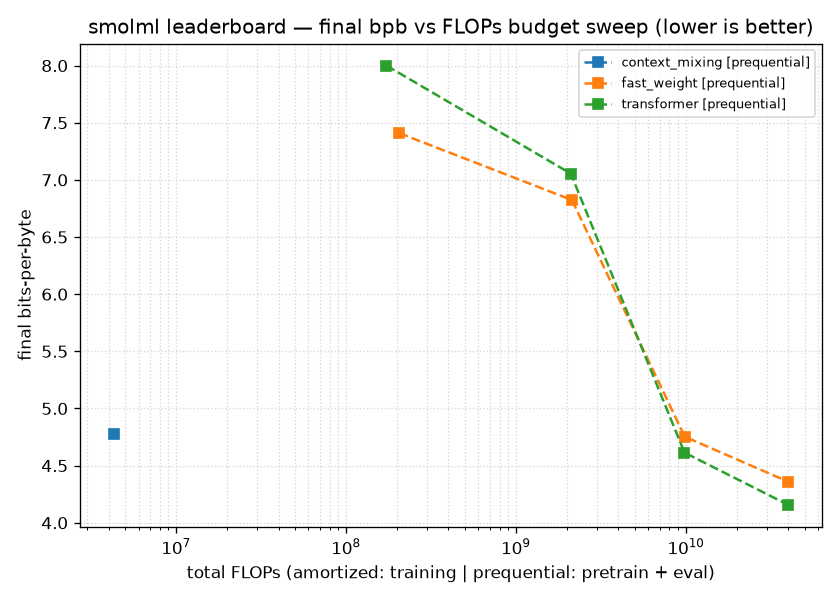
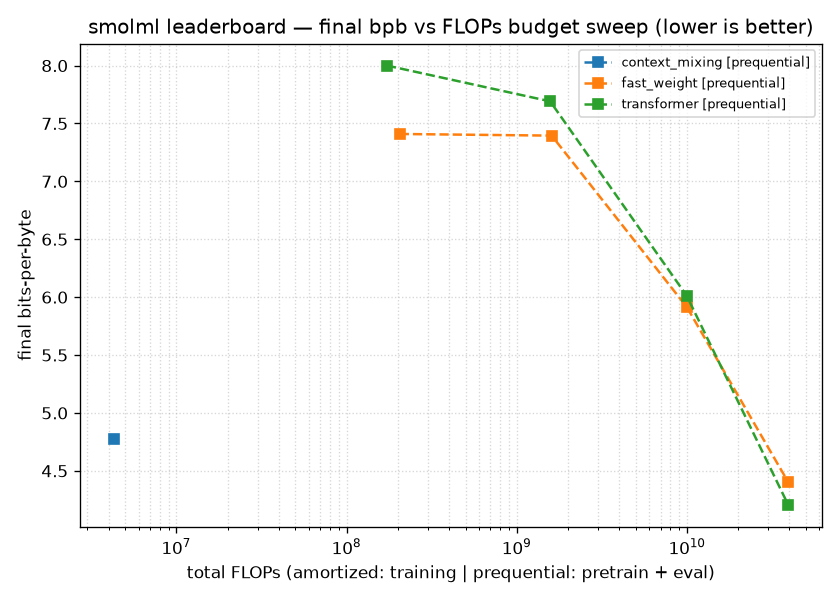
docs(learning): reconcile to canonical seq_len=128 leaderboard
- merge master (corrected first-finding-pareto.md + regenerated unified-leaderboard.png/.md)
- re-copy regenerated plot into src/assets
- curves.ts firstFinding -> canonical numbers (matches 0.2/A.1); fixes A.1 chart too
- first-finding page: table, prose, annotation -> crossover flips (fw wins through 1e10, loses at 4e10)
- context-mixing-reference: add 'two reference runs' caveat (discrepancy 2 explained)
- PROCESS.md: mark both flagged discrepancies resolved + session 3 changelog

diff --git a/docs/learning/src/data/curves.ts b/docs/learning/src/data/curves.ts
@@ -38,7 +38,9 @@ export interface Series {
 
 // ── First finding: three-way Pareto (synthetic text8 clone, final 512 B tail) ──
 // Source: experiments/first-finding-pareto.md + experiments/unified-leaderboard.md
-// (the precise table). All three models on the same prequential protocol.
+// (the precise table). All three models on the same prequential protocol, now
+// at the canonical seq_len=128 (matches the 0.2 / A.1 runs after the master
+// regeneration), so the transformer/fast-weight numbers agree across all pages.
 export const firstFinding: Series[] = [
   {
     id: "context_mixing",
@@ -55,9 +57,9 @@ export const firstFinding: Series[] = [
     dashed: true,
     points: [
       { flops: 1.727e8, bpb: 8.0003, tag: "b0" },
-      { flops: 2.101e9, bpb: 7.055, tag: "b2×10⁹" },
-      { flops: 9.812e9, bpb: 4.6139, tag: "b10¹⁰" },
-      { flops: 4.001e10, bpb: 4.1564, tag: "b4×10¹⁰" },
+      { flops: 1.571e9, bpb: 7.6914, tag: "b2×10⁹" },
+      { flops: 9.962e9, bpb: 6.0125, tag: "b10¹⁰" },
+      { flops: 3.933e10, bpb: 4.2059, tag: "b4×10¹⁰" },
     ],
   },
   {
@@ -68,9 +70,9 @@ export const firstFinding: Series[] = [
     dashed: true,
     points: [
       { flops: 2.052e8, bpb: 7.4095, tag: "b0" },
-      { flops: 2.133e9, bpb: 6.8241, tag: "b2×10⁹" },
-      { flops: 9.844e9, bpb: 4.7534, tag: "b10¹⁰" },
-      { flops: 4.005e10, bpb: 4.3585, tag: "b4×10¹⁰" },
+      { flops: 1.604e9, bpb: 7.3953, tag: "b2×10⁹" },
+      { flops: 9.995e9, bpb: 5.9130, tag: "b10¹⁰" },
+      { flops: 3.936e10, bpb: 4.4017, tag: "b4×10¹⁰" },
     ],
   },
 ];

diff --git a/docs/learning/PROCESS.md b/docs/learning/PROCESS.md
@@ -85,22 +85,23 @@ prose source — I keep them and author the interactive pages under `src/`.
   first-finding-pareto (embeds `unified-leaderboard.png` + interactive 3-way chart).
 - **Landing:** `index.mdx` with the `ConceptMap` and card grids.
 
-## Flagged for researchers (discrepancies in the source notes — NOT fixed, per the charter)
+## Flagged for researchers (RESOLVED 2026-06-19 by Main)
 
-1. **Transformer baseline bpb disagrees between notes at mid budgets.** At budget 10¹⁰ the
-   transformer is **6.0125 bpb** in `0.2-prequential-baseline.md`/`A.1-fast-weight-memory.md` but
-   **4.6139 bpb** in `first-finding-pareto.md`/`unified-leaderboard.md` (which says it was
-   "regenerated on master from all three merged models"). Budget 2×10⁹ similarly disagrees
-   (7.69 vs 7.06). Consequently the fast-weight crossover budget differs: A.1 reports fw **winning**
-   at 10¹⁰ (Δ −0.10), first-finding reports fw **losing** at 10¹⁰ (Δ +0.14). b0 (8.00) and b4×10¹⁰
-   (~4.16–4.21) roughly agree. The site renders each page faithful to its own note; researchers
-   should reconcile which run is canonical.
-2. **Context-mixing reference: near-identical FLOPs, different bpb across runs.** Order-0..1 on the
-   800 B English sample is 4.3922 bpb @ 4.28×10⁶ FLOPs (`experiments/index.md`); the
-   `context_mixing_reference` on the 512 B clone tail is 4.7779 bpb @ 4.283×10⁶ FLOPs
-   (`unified-leaderboard.md`). The FLOP counts are ~equal despite different eval-stream lengths
-   (800 vs 512 bytes) — worth confirming that coincidence is real (e.g. same order, different
-   warm-up), since per-byte cost should scale with bytes processed.
+Both discrepancies I raised were investigated by Main and reconciled — kept here as a record.
+
+1. **Transformer baseline bpb disagreed between notes at mid budgets — RESOLVED.** Root cause: the
+   original `unified-leaderboard` run used `seq_len=64` while the canonical `0.2` / `A.1` runs use
+   `seq_len=128`. Main regenerated the leaderboard at `seq_len=128`; all pages now agree. The
+   crossover flips vs my first build: `fast_weight` **wins** at b0/b2×10⁹/10¹⁰ (−0.59 / −0.30 /
+   −0.10) and **loses only** at 4×10¹⁰ (+0.19); the free reference (4.78) is below both neural
+   curves through 10¹⁰. `curves.ts` `firstFinding` and the first-finding page now carry the
+   canonical numbers (which equal the A.1 table), so the A.1 chart — which reuses `firstFinding` —
+   is self-consistent too.
+2. **Context-mixing reference: near-identical FLOPs, different bpb — EXPLAINED (not a bug).** The
+   0.3 order-sweep ran on the 800 B English sample at order 0..1 (4.3922 bpb @ 4.28×10⁶); the
+   unified run used the 512 B clone tail at the harness default order (4.7779 bpb @ 4.283×10⁶) —
+   different stream length *and* max-order, so the ~equal total FLOPs is coincidental. Each page is
+   faithful; a clarifying caveat was added to the context-mixing-reference page.
 
 ## Changelog
 
@@ -115,3 +116,10 @@ prose source — I keep them and author the interactive pages under `src/`.
   Authored all 5 experiment pages + the log index, embedding both harness plots and re-rendering
   the leaderboard as an interactive 3-way `BpbFlopChart` with a Pareto annotation. Wrote this
   `PROCESS.md`. Recorded MDX gotchas and two flagged source discrepancies. Build green (13 pages).
+- **2026-06-19 (session 3 — canonical reconciliation):** merged `master` (corrected
+  `first-finding-pareto.md` + regenerated `unified-leaderboard.png/.md` at `seq_len=128`).
+  Re-copied the regenerated plot into `src/assets`, updated `curves.ts` `firstFinding` and the
+  first-finding page (table, prose, annotation) to the canonical numbers — the fast-weight
+  crossover now flips (wins through 10¹⁰, loses only at 4×10¹⁰). Added a "two reference runs"
+  caveat to the context-mixing-reference page. Both flagged discrepancies marked resolved. Build
+  green (13 pages).